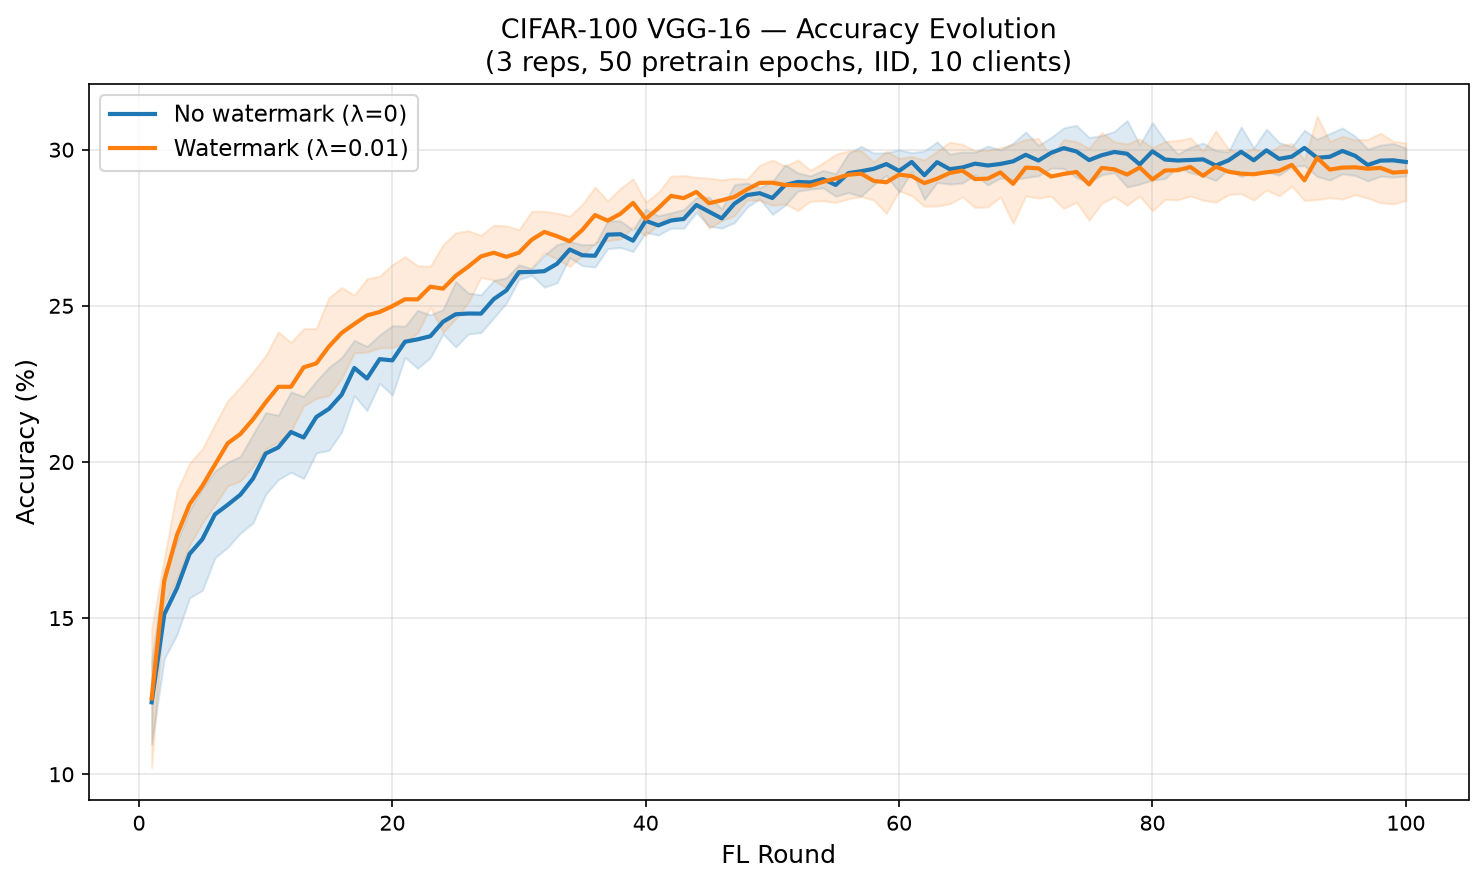
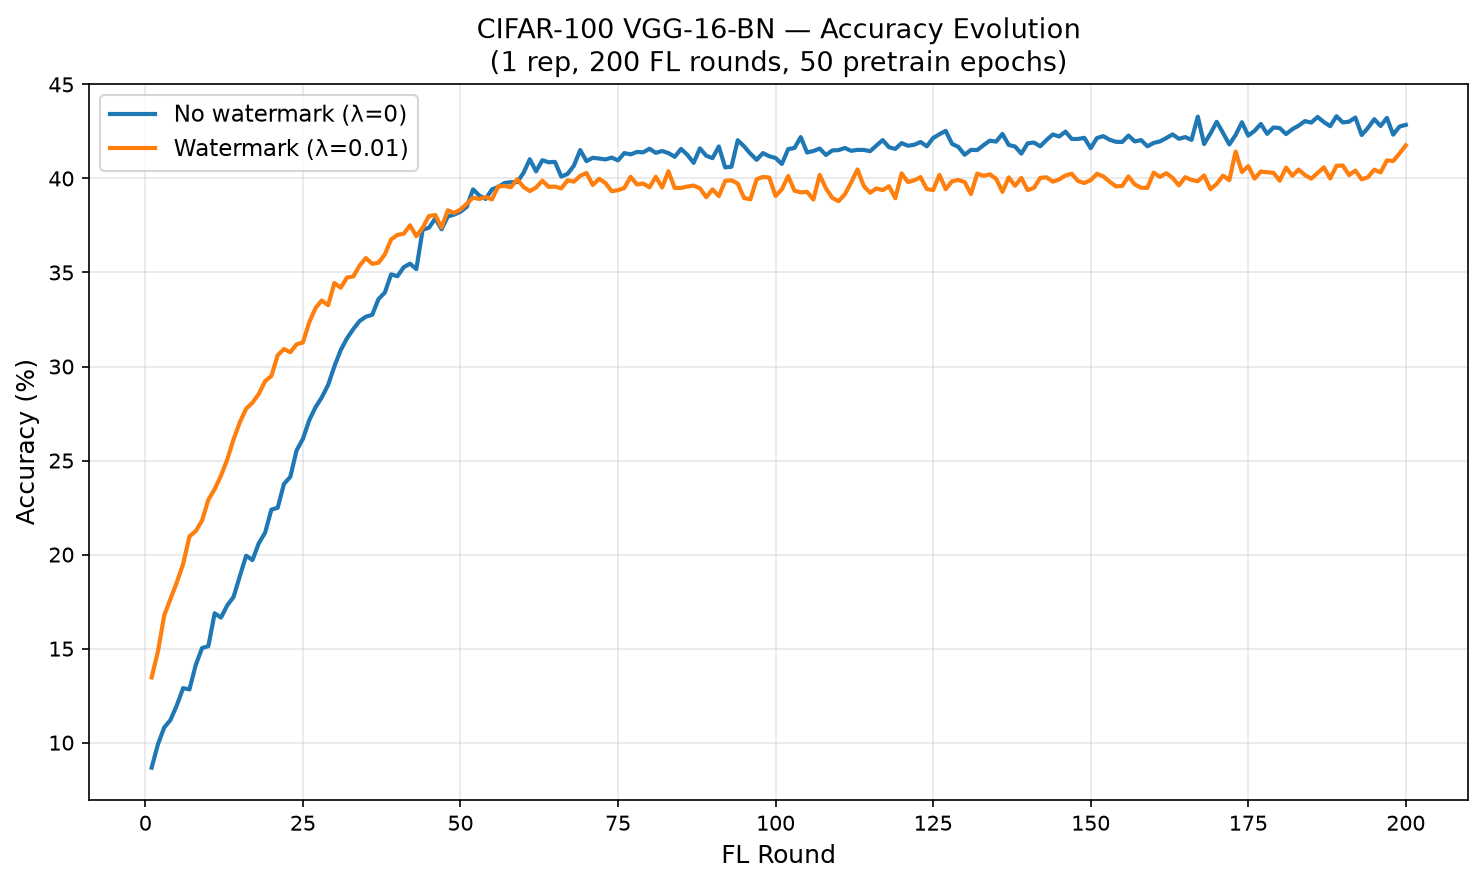
plots: update CIFAR-100 baselines for VGG-16-BN (200 rounds)

diff --git a/utility scripts/plot_cifar100_baselines.py b/utility scripts/plot_cifar100_baselines.py
@@ -1,9 +1,9 @@
 #!/usr/bin/env python3
-"""Plot CIFAR-100 VGG-16 (no-BN) baseline runs — accuracy & BER evolution.
+"""Plot CIFAR-100 VGG-16-BN baseline runs — accuracy & BER evolution.
 
-Two conditions, 3 reps each:
-  - No-watermark (λ=0):   183531, 195522, 211532
-  - Watermark (λ=0.01):   223536, 235521, 011534
+Two conditions, 1 rep each (200 rounds):
+  - No-watermark (λ=0):   20260819_135755
+  - Watermark (λ=0.01):   20260819_163844
 """
 
 import csv
@@ -19,9 +19,9 @@ RESULTS_DIR = Path("results")
 PLOT_DIR = RESULTS_DIR / "plots" / "cifar100_vgg16"
 PLOT_DIR.mkdir(parents=True, exist_ok=True)
 
-# Run IDs from run_registry
-BASELINE_RUNS = ["20260818_183531", "20260818_195522", "20260818_211532"]
-WATERMARK_RUNS = ["20260818_223536", "20260818_235521", "20260819_011534"]
+# Run IDs from run_registry (VGG-16-BN, 200 rounds)
+BASELINE_RUNS = ["20260819_135755"]
+WATERMARK_RUNS = ["20260819_163844"]
 
 
 def load_server_data(run_id):
@@ -59,31 +59,26 @@ def interpolate(common_rounds, rep_data):
 def plot_accuracy():
     fig, ax = plt.subplots(figsize=(10, 6))
 
-    # No-watermark
-    baseline_data = [load_server_data(rid) for rid in BASELINE_RUNS]
-    min_r = max(d[0][0] for d in baseline_data)
-    max_r = min(d[0][-1] for d in baseline_data)
-    cr = list(range(min_r, max_r + 1))
-    mat = interpolate(cr, [(d[0], d[1]) for d in baseline_data])
-    mean_bl = np.nanmean(mat, axis=0)
-    std_bl = np.nanstd(mat, axis=0)
-    ax.plot(cr, mean_bl, "-", color="C0", linewidth=2, label="No watermark (λ=0)")
-    ax.fill_between(cr, mean_bl - std_bl, mean_bl + std_bl, color="C0", alpha=0.15)
-
-    # Watermark
-    wm_data = [load_server_data(rid) for rid in WATERMARK_RUNS]
-    min_r = max(d[0][0] for d in wm_data)
-    max_r = min(d[0][-1] for d in wm_data)
-    cr2 = list(range(min_r, max_r + 1))
-    mat2 = interpolate(cr2, [(d[0], d[1]) for d in wm_data])
-    mean_wm = np.nanmean(mat2, axis=0)
-    std_wm = np.nanstd(mat2, axis=0)
-    ax.plot(cr2, mean_wm, "-", color="C1", linewidth=2, label="Watermark (λ=0.01)")
-    ax.fill_between(cr2, mean_wm - std_wm, mean_wm + std_wm, color="C1", alpha=0.15)
+    for runs, color, label in [(BASELINE_RUNS, "C0", "No watermark (λ=0)"),
+                                (WATERMARK_RUNS, "C1", "Watermark (λ=0.01)")]:
+        data = [load_server_data(rid) for rid in runs]
+        min_r = max(d[0][0] for d in data)
+        max_r = min(d[0][-1] for d in data)
+        cr = list(range(min_r, max_r + 1))
+        mat = interpolate(cr, [(d[0], d[1]) for d in data])
+        mean = np.nanmean(mat, axis=0)
+        ax.plot(cr, mean, "-", color=color, linewidth=2, label=label)
+        if len(runs) > 1:
+            std = np.nanstd(mat, axis=0)
+            ax.fill_between(cr, mean - std, mean + std, color=color, alpha=0.15)
+            for i, (rnds, accs, _) in enumerate(data):
+                ax.plot(rnds, accs, "--", color=color, alpha=0.3, linewidth=1)
+        else:
+            ax.plot(data[0][0], data[0][1], "--", color=color, alpha=0.4, linewidth=1, label="_nolegend_")
 
     ax.set_xlabel("FL Round", fontsize=12)
     ax.set_ylabel("Accuracy (%)", fontsize=12)
-    ax.set_title("CIFAR-100 VGG-16 — Accuracy Evolution\n(3 reps, 50 pretrain epochs, IID, 10 clients)", fontsize=13)
+    ax.set_title("CIFAR-100 VGG-16-BN — Accuracy Evolution\n(1 rep, 200 FL rounds, 50 pretrain epochs)", fontsize=13)
     ax.grid(True, alpha=0.3)
     ax.legend(fontsize=11)
     fig.tight_layout()
@@ -95,29 +90,26 @@ def plot_accuracy():
 def plot_loss():
     fig, ax = plt.subplots(figsize=(10, 6))
 
-    baseline_data = [load_server_data(rid) for rid in BASELINE_RUNS]
-    min_r = max(d[0][0] for d in baseline_data)
-    max_r = min(d[0][-1] for d in baseline_data)
-    cr = list(range(min_r, max_r + 1))
-    mat = interpolate(cr, [(d[0], d[2]) for d in baseline_data])
-    mean_bl = np.nanmean(mat, axis=0)
-    std_bl = np.nanstd(mat, axis=0)
-    ax.plot(cr, mean_bl, "-", color="C0", linewidth=2, label="No watermark (λ=0)")
-    ax.fill_between(cr, mean_bl - std_bl, mean_bl + std_bl, color="C0", alpha=0.15)
-
-    wm_data = [load_server_data(rid) for rid in WATERMARK_RUNS]
-    min_r = max(d[0][0] for d in wm_data)
-    max_r = min(d[0][-1] for d in wm_data)
-    cr2 = list(range(min_r, max_r + 1))
-    mat2 = interpolate(cr2, [(d[0], d[2]) for d in wm_data])
-    mean_wm = np.nanmean(mat2, axis=0)
-    std_wm = np.nanstd(mat2, axis=0)
-    ax.plot(cr2, mean_wm, "-", color="C1", linewidth=2, label="Watermark (λ=0.01)")
-    ax.fill_between(cr2, mean_wm - std_wm, mean_wm + std_wm, color="C1", alpha=0.15)
+    for runs, color, label in [(BASELINE_RUNS, "C0", "No watermark (λ=0)"),
+                                (WATERMARK_RUNS, "C1", "Watermark (λ=0.01)")]:
+        data = [load_server_data(rid) for rid in runs]
+        min_r = max(d[0][0] for d in data)
+        max_r = min(d[0][-1] for d in data)
+        cr = list(range(min_r, max_r + 1))
+        mat = interpolate(cr, [(d[0], d[2]) for d in data])
+        mean = np.nanmean(mat, axis=0)
+        ax.plot(cr, mean, "-", color=color, linewidth=2, label=label)
+        if len(runs) > 1:
+            std = np.nanstd(mat, axis=0)
+            ax.fill_between(cr, mean - std, mean + std, color=color, alpha=0.15)
+            for i, (rnds, _, losses) in enumerate(data):
+                ax.plot(rnds, losses, "--", color=color, alpha=0.3, linewidth=1)
+        else:
+            ax.plot(data[0][0], data[0][2], "--", color=color, alpha=0.4, linewidth=1, label="_nolegend_")
 
     ax.set_xlabel("FL Round", fontsize=12)
     ax.set_ylabel("Loss", fontsize=12)
-    ax.set_title("CIFAR-100 VGG-16 — Loss Evolution\n(3 reps, 50 pretrain epochs, IID, 10 clients)", fontsize=13)
+    ax.set_title("CIFAR-100 VGG-16-BN — Loss Evolution\n(1 rep, 200 FL rounds, 50 pretrain epochs)", fontsize=13)
     ax.grid(True, alpha=0.3)
     ax.legend(fontsize=11)
     fig.tight_layout()
@@ -129,31 +121,26 @@ def plot_loss():
 def plot_ber():
     fig, ax = plt.subplots(figsize=(10, 6))
 
-    # Watermark runs BER
-    wm_data = [load_train_ber(rid) for rid in WATERMARK_RUNS]
-    min_r = max(d[0][0] for d in wm_data)
-    max_r = min(d[0][-1] for d in wm_data)
-    cr = list(range(min_r, max_r + 1))
-    mat = interpolate(cr, wm_data)
-    mean_wm = np.nanmean(mat, axis=0)
-    std_wm = np.nanstd(mat, axis=0)
-    ax.plot(cr, mean_wm, "-", color="C1", linewidth=2, label="Watermark (λ=0.01)")
-    ax.fill_between(cr, mean_wm - std_wm, mean_wm + std_wm, color="C1", alpha=0.15)
-
-    # Baseline runs BER
-    bl_data = [load_train_ber(rid) for rid in BASELINE_RUNS]
-    min_r2 = max(d[0][0] for d in bl_data)
-    max_r2 = min(d[0][-1] for d in bl_data)
-    cr2 = list(range(min_r2, max_r2 + 1))
-    mat2 = interpolate(cr2, bl_data)
-    mean_bl = np.nanmean(mat2, axis=0)
-    std_bl = np.nanstd(mat2, axis=0)
-    ax.plot(cr2, mean_bl, "--", color="C0", linewidth=2, label="No watermark (λ=0)")
-    ax.fill_between(cr2, mean_bl - std_bl, mean_bl + std_bl, color="C0", alpha=0.15)
+    for runs, color, label in [(WATERMARK_RUNS, "C1", "Watermark (λ=0.01)"),
+                                (BASELINE_RUNS, "C0", "No watermark (λ=0)")]:
+        data = [load_train_ber(rid) for rid in runs]
+        min_r = max(d[0][0] for d in data)
+        max_r = min(d[0][-1] for d in data)
+        cr = list(range(min_r, max_r + 1))
+        mat = interpolate(cr, data)
+        mean = np.nanmean(mat, axis=0)
+        ax.plot(cr, mean, "-" if color == "C1" else "--", color=color, linewidth=2, label=label)
+        if len(runs) > 1:
+            std = np.nanstd(mat, axis=0)
+            ax.fill_between(cr, mean - std, mean + std, color=color, alpha=0.15)
+            for rnds, bers in data:
+                ax.plot(rnds, bers, "--", color=color, alpha=0.3, linewidth=1)
+        else:
+            ax.plot(data[0][0], data[0][1], "--", color=color, alpha=0.4, linewidth=1, label="_nolegend_")
 
     ax.set_xlabel("FL Round", fontsize=12)
     ax.set_ylabel("Watermark BER", fontsize=12)
-    ax.set_title("CIFAR-100 VGG-16 — BER Evolution\n(3 reps, 50 pretrain epochs, IID, 10 clients)", fontsize=13)
+    ax.set_title("CIFAR-100 VGG-16-BN — BER Evolution\n(1 rep, 200 FL rounds, 50 pretrain epochs)", fontsize=13)
     ax.grid(True, alpha=0.3)
     ax.set_ylim(-0.05, 0.65)
     ax.legend(fontsize=11)
